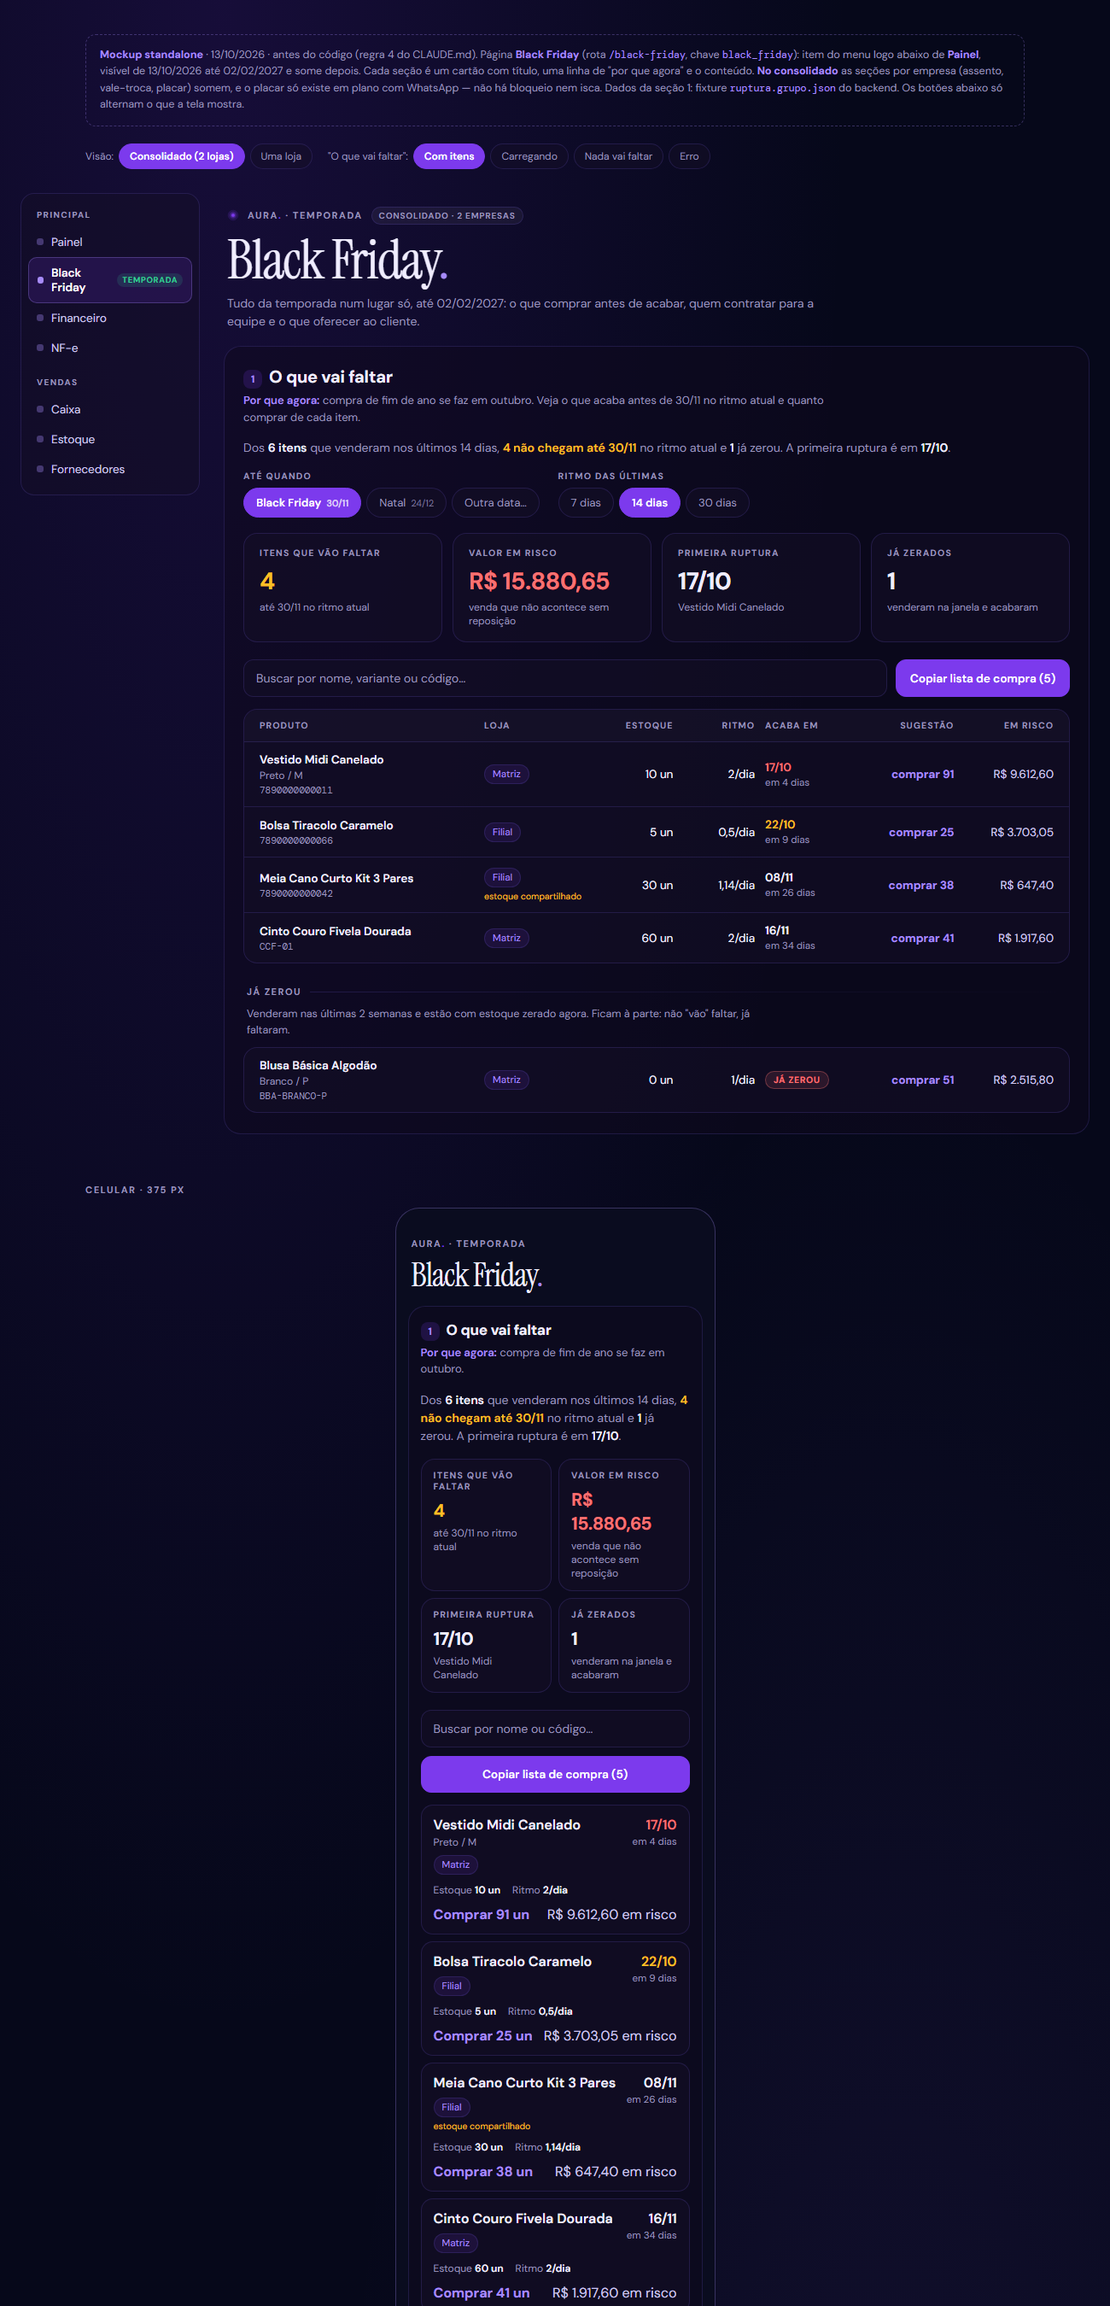
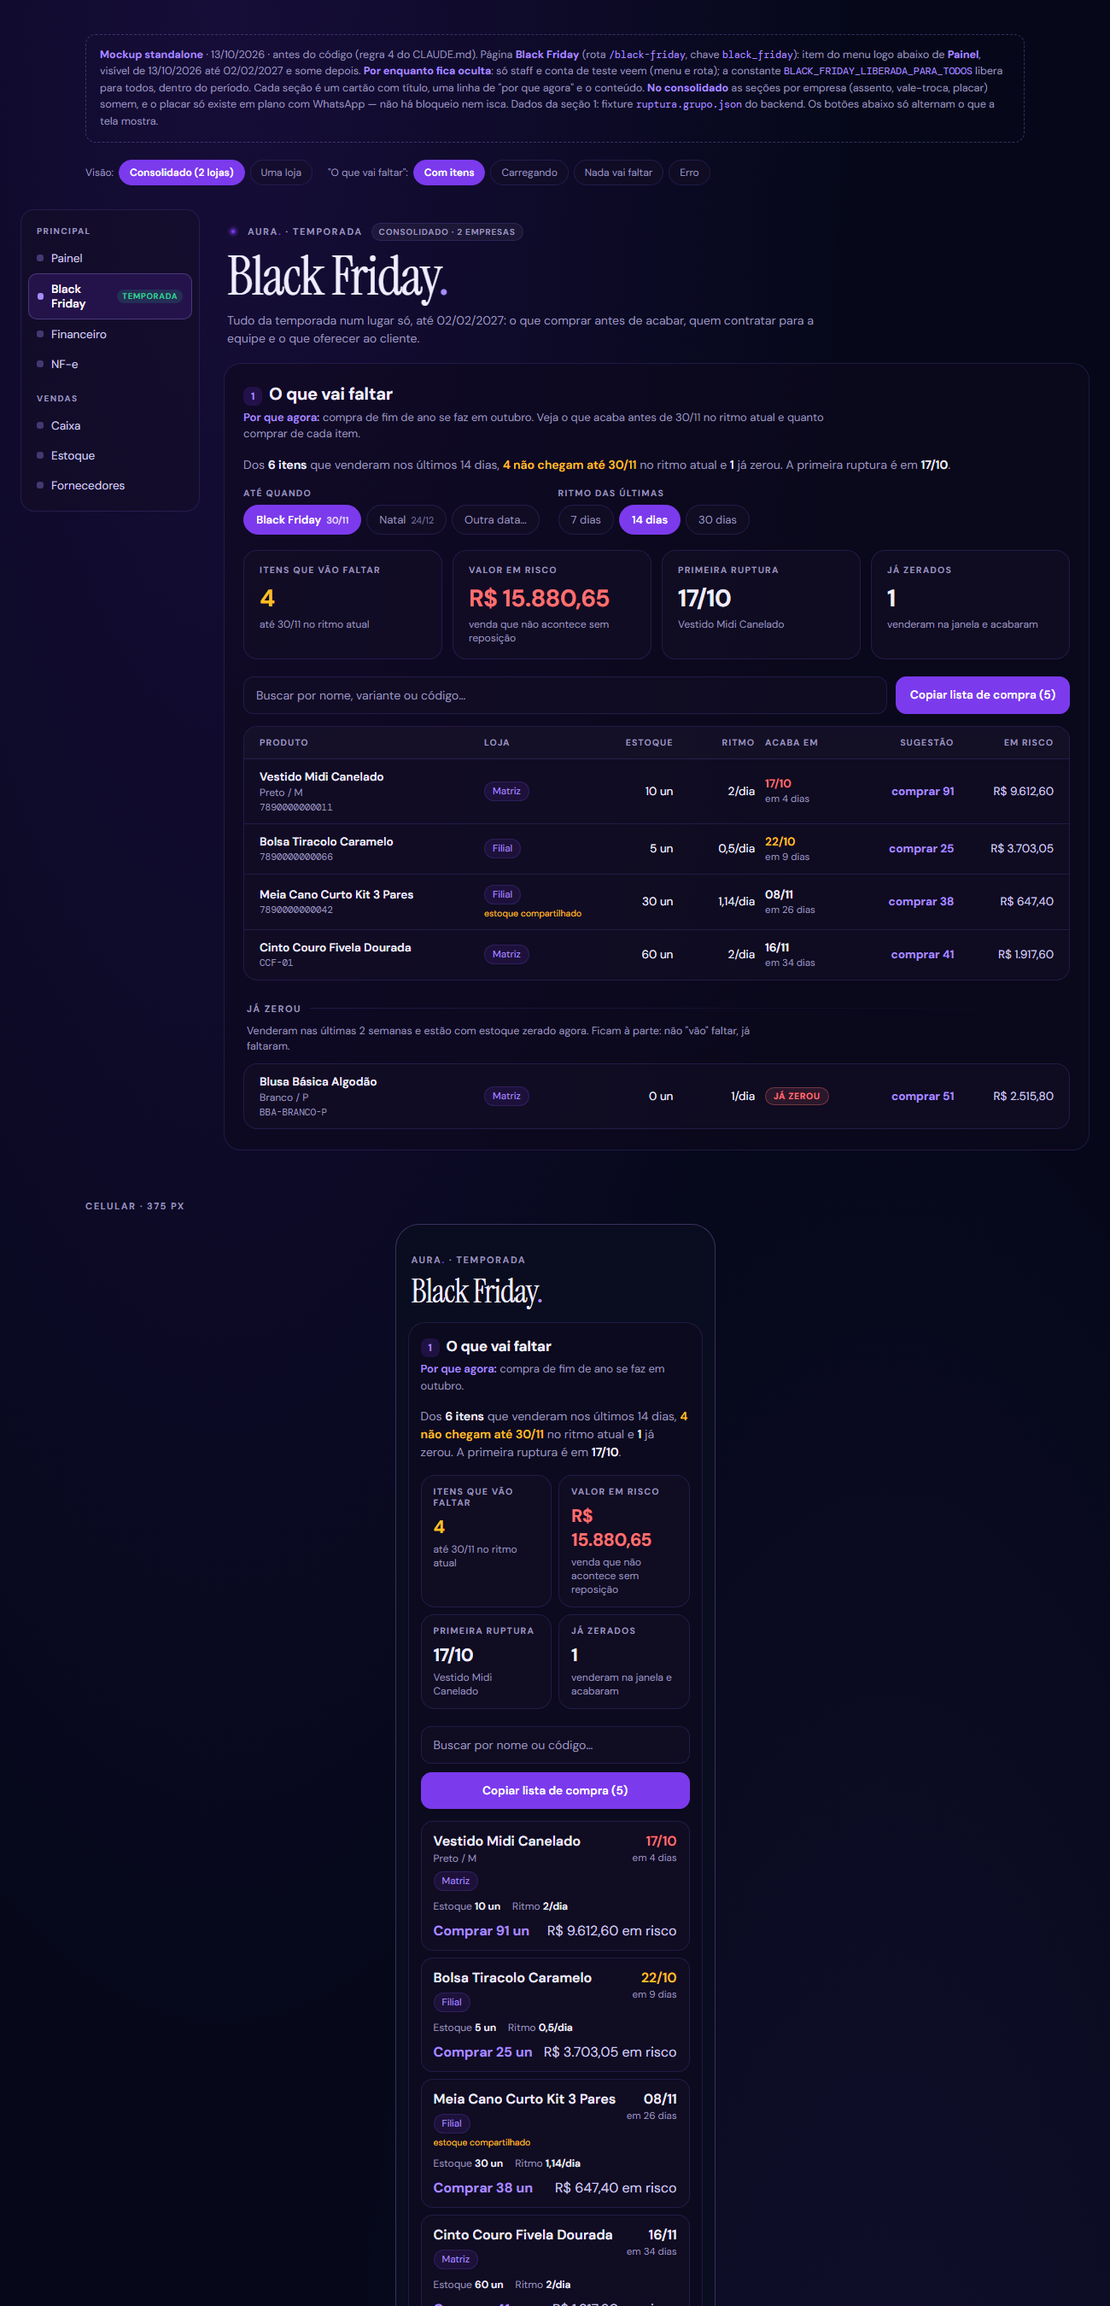
feat(black-friday): página oculta por enquanto — só staff e conta de teste
- BLACK_FRIDAY_LIBERADA_PARA_TODOS = false (constants/blackFriday.ts); em true libera
  para todos dentro do período
- useBlackFridayLiberada: período + (constante ou staff/is_sandbox); usado pelo menu
  (Sidebar e MBar), pela rota (lojista cai no Painel) e pelo atalho em Configurações
- testes: staff e conta de teste veem, lojista comum não, constante true libera

diff --git a/__tests__/blackFridayPagina.test.tsx b/__tests__/blackFridayPagina.test.tsx
@@ -14,7 +14,9 @@
 // 4. o assento reaproveita o cartão de Configurações (sem moldura) e lá
 //    fica só o atalho; o vale-troca é espelho do MESMO estado do toggle de
 //    Políticas do Caixa;
-// 5. o Estoque não ganhou aba nem item novo.
+// 5. o Estoque não ganhou aba nem item novo;
+// 6. a página está OCULTA por enquanto: só staff e conta de teste (is_sandbox)
+//    veem — menu e rota — até BLACK_FRIDAY_LIBERADA_PARA_TODOS virar true.
 // ============================================================
 import React from "react";
 import fs from "fs";
@@ -69,7 +71,11 @@ jest.mock("@/components/screens/configuracoes/AssentoTemporadaCard", () => {
 });
 
 import { computeVisibleModules, MODULE_PLAN_MAP, PERM_TO_MODULES } from "@/hooks/useVisibleModules";
-import { BLACK_FRIDAY_ATE, BLACK_FRIDAY_DE, BLACK_FRIDAY_MOD, blackFridayAtivo } from "@/constants/blackFriday";
+import {
+  BLACK_FRIDAY_ATE, BLACK_FRIDAY_DE, BLACK_FRIDAY_LIBERADA_PARA_TODOS, BLACK_FRIDAY_MOD,
+  blackFridayAtivo, blackFridayLiberada, ehContaDeTeste,
+} from "@/constants/blackFriday";
+import BlackFridayRota from "@/app/(tabs)/black-friday";
 import { secoesDaPagina } from "@/components/screens/blackfriday/secoes";
 import { PaginaBlackFriday } from "@/components/screens/blackfriday/PaginaBlackFriday";
 import { AtalhoAssento } from "@/components/screens/blackfriday/AtalhoAssento";
@@ -96,7 +102,7 @@ function fixarHoje(iso: string) {
 beforeEach(() => {
   jest.clearAllMocks();
   fixarHoje("2026-10-13");
-  mockAuth = { company: { id: CID, plan: "negocio", member_role: "owner" }, consolidatedView: false, availableCompanies: [{ id: CID }], isStaff: false };
+  mockAuth = { company: { id: CID, plan: "negocio", member_role: "owner" }, consolidatedView: false, availableCompanies: [{ id: CID }], isStaff: false, isDemo: false, user: { is_staff: false } };
   mockVisible = new Set(["estoque", "configuracoes", "whatsapp", BLACK_FRIDAY_MOD]);
   mockPdv = { cash_tender_modal_enabled: true };
   mockSalvar.mockResolvedValue({});
@@ -129,8 +135,10 @@ describe("item do menu", () => {
     expect(linha).toContain('{ r: "/black-friday", l: "Black Friday", ic: "tag", mod: "black_friday", temporada: true }');
   });
 
-  it("é filtrado pelo período antes de qualquer outro filtro do buildRawNav", () => {
-    expect(LAYOUT).toContain("if (item.temporada && !blackFridayAtivo()) return false;");
+  it("é filtrado por período e por quem vê (hook), no Sidebar e no MBar", () => {
+    expect(LAYOUT).toContain("if (item.temporada && blackFridayOn !== true) return false;");
+    expect(Array.from(LAYOUT.matchAll(/const blackFridayOn = useBlackFridayLiberada\(\);/g))).toHaveLength(2);
+    expect(Array.from(LAYOUT.matchAll(/matconEnabled, blackFridayOn\)/g))).toHaveLength(2);
   });
 
   it("nenhum outro item do NAV herda a chave", () => {
@@ -369,7 +377,80 @@ describe("vale-troca: espelho do mesmo estado (pdv_settings)", () => {
 
 // ── 4. Configurações: só o atalho ────────────────────────────
 
+describe("quem vê a página (oculta por enquanto)", () => {
+  const lojista = { isStaff: false, isDemo: false, user: { is_staff: false }, company: { is_sandbox: false } };
+  const noPeriodo = "2026-11-30";
+
+  it("a constante de liberação geral nasce desligada", () => {
+    expect(BLACK_FRIDAY_LIBERADA_PARA_TODOS).toBe(false);
+  });
+
+  it("lojista comum NÃO vê, mesmo dentro do período", () => {
+    expect(blackFridayAtivo(noPeriodo)).toBe(true);
+    expect(blackFridayLiberada(lojista, noPeriodo)).toBe(false);
+  });
+
+  it("staff vê (isStaff do store ou is_staff do usuário)", () => {
+    expect(blackFridayLiberada({ ...lojista, isStaff: true }, noPeriodo)).toBe(true);
+    expect(blackFridayLiberada({ ...lojista, user: { is_staff: true } }, noPeriodo)).toBe(true);
+  });
+
+  it("conta de teste (empresa sandbox) vê", () => {
+    expect(ehContaDeTeste({ ...lojista, company: { is_sandbox: true } })).toBe(true);
+    expect(blackFridayLiberada({ ...lojista, company: { is_sandbox: true } }, noPeriodo)).toBe(true);
+  });
+
+  it("com a constante em true libera para todo mundo — dentro do período", () => {
+    expect(blackFridayLiberada(lojista, noPeriodo, true)).toBe(true);
+    expect(blackFridayLiberada(lojista, "2026-10-12", true)).toBe(false);
+    expect(blackFridayLiberada(lojista, "2027-02-03", true)).toBe(false);
+  });
+
+  it("staff também respeita o período", () => {
+    expect(blackFridayLiberada({ ...lojista, isStaff: true }, "2027-02-03")).toBe(false);
+    expect(blackFridayLiberada({ ...lojista, isStaff: true }, "2026-10-12")).toBe(false);
+  });
+
+  it("acesso direto pela URL: lojista comum cai no Painel e não renderiza a página", () => {
+    const r = montar(<BlackFridayRota />);
+    expect(r.toJSON()).toBeNull();
+    expect(mockReplace).toHaveBeenCalledWith("/");
+  });
+
+  it("acesso direto pela URL: staff vê a página e nada redireciona", () => {
+    mockAuth = { ...mockAuth, isStaff: true };
+    const r = montar(<BlackFridayRota />);
+    expect(r.root.findAllByProps({ testID: "pagina-black-friday" }, { deep: false })).toHaveLength(1);
+    expect(mockReplace).not.toHaveBeenCalled();
+  });
+
+  it("acesso direto pela URL: conta de teste vê a página", () => {
+    mockAuth = { ...mockAuth, company: { ...mockAuth.company, is_sandbox: true } };
+    const r = montar(<BlackFridayRota />);
+    expect(r.root.findAllByProps({ testID: "pagina-black-friday" }, { deep: false })).toHaveLength(1);
+  });
+
+  it("staff sem o módulo (override/permissão) também cai no Painel", () => {
+    mockAuth = { ...mockAuth, isStaff: true };
+    mockVisible = new Set(["estoque"]);
+    const r = montar(<BlackFridayRota />);
+    expect(r.toJSON()).toBeNull();
+    expect(mockReplace).toHaveBeenCalledWith("/");
+  });
+
+  it("fora do período nem staff entra", () => {
+    jest.useRealTimers();
+    fixarHoje("2027-02-10");
+    mockAuth = { ...mockAuth, isStaff: true };
+    const r = montar(<BlackFridayRota />);
+    expect(r.toJSON()).toBeNull();
+    expect(mockReplace).toHaveBeenCalledWith("/");
+  });
+});
+
 describe("atalho em Configurações › Plano", () => {
+  beforeEach(() => { mockAuth = { ...mockAuth, isStaff: true }; });
+
   it("leva à página Black Friday", () => {
     const r = montar(<AtalhoAssento />);
     const atalho = r.root.findAllByProps({ testID: "atalho-assento-black-friday" }, { deep: false })[0];
@@ -378,7 +459,11 @@ describe("atalho em Configurações › Plano", () => {
     expect(mockPush).toHaveBeenCalledWith("/black-friday");
   });
 
-  it("some junto com a página: fora do período, sem o módulo ou depois da janela do assento", () => {
+  it("some junto com a página: lojista comum, sem o módulo, fora do período ou depois da janela do assento", () => {
+    mockAuth = { ...mockAuth, isStaff: false };
+    expect(montar(<AtalhoAssento />).toJSON()).toBeNull(); // oculta por enquanto
+
+    mockAuth = { ...mockAuth, isStaff: true };
     mockVisible = new Set(["estoque", "configuracoes"]);
     expect(montar(<AtalhoAssento />).toJSON()).toBeNull();
 

diff --git a/app/(tabs)/_layout.tsx b/app/(tabs)/_layout.tsx
@@ -16,7 +16,7 @@ import { useVisibleModules, MODULE_PLAN_MAP, PLAN_LEVEL } from "@/hooks/useVisib
 import { usePdvSettings } from "@/hooks/usePdvSettings";
 import { useSidebarLayout, applyLayoutToNav } from "@/hooks/useSidebarLayout";
 import { moduloEstaOculto } from "@/constants/modulosOcultos";
-import { blackFridayAtivo } from "@/constants/blackFriday";
+import { useBlackFridayLiberada } from "@/hooks/useBlackFridayLiberada";
 import { SidebarEditor } from "@/components/SidebarEditor";
 import { CompanySwitcher } from "@/components/CompanySwitcher"; // M1-06: Multi-CNPJ switcher
 import { NotificationBell } from "@/components/NotificationBell";
@@ -254,7 +254,7 @@ function isA(p: string, r: string) {
 // Usado tanto na renderizacao (depois aplica layout) quanto pra
 // passar como baseNav pro SidebarEditor (cliente ve TUDO no editor).
 // ============================================================
-function buildRawNav(visibleMods: Set<string>, isStaff: boolean, activeVertical: string | null | undefined, osEnabled?: boolean, oticaEnabled?: boolean, matconEnabled?: boolean): NavSection[] {
+function buildRawNav(visibleMods: Set<string>, isStaff: boolean, activeVertical: string | null | undefined, osEnabled?: boolean, oticaEnabled?: boolean, matconEnabled?: boolean, blackFridayOn?: boolean): NavSection[] {
   const base = NAV.map(section => ({
     ...section,
     i: section.i.filter(item => {
@@ -272,8 +272,9 @@ function buildRawNav(visibleMods: Set<string>, isStaff: boolean, activeVertical:
       // ve secao nenhuma.
       if (item.matconToggle && matconEnabled !== true) return false;
       // 13/10/2026 — pagina de temporada: some fora do periodo (de 13/10/2026
-      // ate 02/02/2027, constants/blackFriday.ts).
-      if (item.temporada && !blackFridayAtivo()) return false;
+      // ate 02/02/2027) e, por enquanto, para quem nao e conta de teste
+      // (BLACK_FRIDAY_LIBERADA_PARA_TODOS, constants/blackFriday.ts).
+      if (item.temporada && blackFridayOn !== true) return false;
       // 21/09/2026 — feature que ainda nao esta operante fica fora do
       // menu (constants/modulosOcultos.ts). Filtro de APRESENTACAO: o
       // item segue declarado no NAV e o plano/permissao dele continuam
@@ -528,13 +529,14 @@ function Sidebar({ collapsed, onToggle }: { collapsed: boolean; onToggle: () => 
   const osEnabled = pdvSettingsNav.os_enabled === true;
   const oticaEnabled = pdvSettingsNav.otica_enabled === true;
   const matconEnabled = pdvSettingsNav.matcon_enabled === true;
+  const blackFridayOn = useBlackFridayLiberada();
   const activeVertical = (co as any)?.vertical_active as string | null | undefined;
 
   // rawFilteredNav: NAV cru (so plano/staff/vertical), passado pro editor pra
   // cliente ver TUDO disponivel.
   const rawFilteredNav = useMemo(
-    () => buildRawNav(visibleMods, isStaff, activeVertical, osEnabled, oticaEnabled, matconEnabled),
-    [visibleMods, isStaff, activeVertical, osEnabled, oticaEnabled, matconEnabled]
+    () => buildRawNav(visibleMods, isStaff, activeVertical, osEnabled, oticaEnabled, matconEnabled, blackFridayOn),
+    [visibleMods, isStaff, activeVertical, osEnabled, oticaEnabled, matconEnabled, blackFridayOn]
   );
 
   // filteredNav: rawFilteredNav + customizacoes do cliente aplicadas.
@@ -798,6 +800,7 @@ function MBar() {
   const osEnabled = pdvSettingsNav.os_enabled === true;
   const oticaEnabled = pdvSettingsNav.otica_enabled === true;
   const matconEnabled = pdvSettingsNav.matcon_enabled === true;
+  const blackFridayOn = useBlackFridayLiberada();
   const activeVertical = (co as any)?.vertical_active as string | null | undefined;
 
   // 4 tabs fixas no rodape (nao editaveis pelo cliente).
@@ -811,8 +814,8 @@ function MBar() {
 
   // rawFilteredNav: mesma logica do desktop, base unica de items disponiveis.
   const rawFilteredNav = useMemo(
-    () => buildRawNav(visibleMods, isStaff, activeVertical, osEnabled, oticaEnabled, matconEnabled),
-    [visibleMods, isStaff, activeVertical, osEnabled, oticaEnabled, matconEnabled]
+    () => buildRawNav(visibleMods, isStaff, activeVertical, osEnabled, oticaEnabled, matconEnabled, blackFridayOn),
+    [visibleMods, isStaff, activeVertical, osEnabled, oticaEnabled, matconEnabled, blackFridayOn]
   );
 
   // filteredNav: aplica layout custom do cliente.

diff --git a/constants/blackFriday.ts b/constants/blackFriday.ts
@@ -26,3 +26,49 @@ export function blackFridayAtivo(hoje?: string): boolean {
   if (!dia) return false;
   return dia >= BLACK_FRIDAY_DE && dia <= BLACK_FRIDAY_ATE;
 }
+
+// ── Quem vê ──────────────────────────────────────────────────
+//
+// Decisão do Caio (13/10): a página fica OCULTA por enquanto e só aparece
+// para quem testa — staff (is_staff ou conta @getaura.com.br) e empresa de
+// teste (companies.is_sandbox). Quando `BLACK_FRIDAY_LIBERADA_PARA_TODOS`
+// virar true, a página abre para todo mundo, dentro do período e do plano.
+//
+// ATENÇÃO — `is_sandbox`: a coluna existe no backend (migration 320), mas o
+// GET /auth/me ainda NÃO a devolve no objeto `company`. Enquanto isso, a
+// leitura abaixo só acende para staff; ela passa a valer para conta de
+// teste sozinha assim que o payload trouxer o campo (sem mudar o app).
+export const BLACK_FRIDAY_LIBERADA_PARA_TODOS = false;
+
+export type ContaParaBlackFriday = {
+  /** isStaff do auth store (is_staff ou @getaura.com.br). */
+  isStaff?: boolean | null;
+  /** Campo legado do auth store (hoje sempre false). */
+  isDemo?: boolean | null;
+  user?: { is_staff?: boolean | null } | null;
+  company?: { is_sandbox?: boolean | null } | null;
+};
+
+/** A conta é de teste (staff, demo ou empresa sandbox)? */
+export function ehContaDeTeste(c: ContaParaBlackFriday): boolean {
+  return (
+    c.isStaff === true ||
+    c.isDemo === true ||
+    (!!c.user && c.user.is_staff === true) ||
+    (!!c.company && c.company.is_sandbox === true)
+  );
+}
+
+/**
+ * A página (item do menu e rota) está liberada para esta conta, hoje?
+ * Período E (liberada para todos OU conta de teste). `hoje` e a constante
+ * são injetáveis só para teste.
+ */
+export function blackFridayLiberada(
+  c: ContaParaBlackFriday,
+  hoje?: string,
+  liberadaParaTodos: boolean = BLACK_FRIDAY_LIBERADA_PARA_TODOS,
+): boolean {
+  if (!blackFridayAtivo(hoje)) return false;
+  return liberadaParaTodos || ehContaDeTeste(c);
+}

diff --git a/app/(tabs)/black-friday.tsx b/app/(tabs)/black-friday.tsx
@@ -4,7 +4,8 @@
 // A página da temporada de fim de ano. O arquivo só monta o corpo
 // (components/screens/blackfriday/PaginaBlackFriday) dentro do shell padrão
 // do app e guarda a porta: fora do período (constants/blackFriday.ts) ou
-// sem o módulo `black_friday` (permissão ou override), volta para o Painel
+// sem o módulo `black_friday` (permissão ou override) ou, por enquanto, sem
+// ser conta de teste (BLACK_FRIDAY_LIBERADA_PARA_TODOS), volta para o Painel
 // — quem digitou a URL de uma página que o menu não mostra não fica nela.
 // ============================================================
 import { useEffect } from "react";
@@ -12,13 +13,15 @@ import { ScrollView, StyleSheet, Dimensions } from "react-native";
 import { router } from "expo-router";
 import { PaginaBlackFriday } from "@/components/screens/blackfriday/PaginaBlackFriday";
 import { useVisibleModules } from "@/hooks/useVisibleModules";
-import { BLACK_FRIDAY_MOD, blackFridayAtivo } from "@/constants/blackFriday";
+import { BLACK_FRIDAY_MOD } from "@/constants/blackFriday";
+import { useBlackFridayLiberada } from "@/hooks/useBlackFridayLiberada";
 
 const IS_WIDE = Dimensions.get("window").width > 768;
 
 export default function BlackFridayScreen() {
   const visible = useVisibleModules();
-  const permitido = blackFridayAtivo() && visible.has(BLACK_FRIDAY_MOD);
+  const liberada = useBlackFridayLiberada();
+  const permitido = liberada && visible.has(BLACK_FRIDAY_MOD);
 
   useEffect(() => {
     if (!permitido) router.replace("/" as any);

diff --git a/docs/mockups/black-friday.html b/docs/mockups/black-friday.html
@@ -269,7 +269,8 @@
 <div class="nota">
   <b>Mockup standalone</b> · 13/10/2026 · antes do código (regra 4 do CLAUDE.md). Página <b>Black Friday</b> (rota
   <code>/black-friday</code>, chave <code>black_friday</code>): item do menu logo abaixo de <b>Painel</b>, visível de
-  13/10/2026 até 02/02/2027 e some depois. Cada seção é um cartão com título, uma linha de "por que agora" e o conteúdo.
+  13/10/2026 até 02/02/2027 e some depois. <b>Por enquanto fica oculta</b>: só staff e conta de teste veem (menu e rota);
+  a constante <code>BLACK_FRIDAY_LIBERADA_PARA_TODOS</code> libera para todos, dentro do período. Cada seção é um cartão com título, uma linha de "por que agora" e o conteúdo.
   <b>No consolidado</b> as seções por empresa (assento, vale-troca, placar) somem, e o placar só existe em plano com WhatsApp — não há bloqueio nem isca. Dados da seção 1:
   fixture <code>ruptura.grupo.json</code> do backend. Os botões abaixo só alternam o que a tela mostra.
 </div>

diff --git a/components/screens/blackfriday/AtalhoAssento.tsx b/components/screens/blackfriday/AtalhoAssento.tsx
@@ -11,12 +11,14 @@ import { router } from "expo-router";
 import { Colors } from "@/constants/colors";
 import { Icon } from "@/components/Icon";
 import { useVisibleModules } from "@/hooks/useVisibleModules";
-import { BLACK_FRIDAY_MOD, BLACK_FRIDAY_ROTA, blackFridayAtivo } from "@/constants/blackFriday";
+import { BLACK_FRIDAY_MOD, BLACK_FRIDAY_ROTA } from "@/constants/blackFriday";
+import { useBlackFridayLiberada } from "@/hooks/useBlackFridayLiberada";
 import { assentoTemporadaVisivel } from "@/components/screens/configuracoes/assentoTemporada";
 
 export function AtalhoAssento() {
   const visible = useVisibleModules();
-  if (!blackFridayAtivo() || !assentoTemporadaVisivel() || !visible.has(BLACK_FRIDAY_MOD)) return null;
+  const liberada = useBlackFridayLiberada();
+  if (!liberada || !assentoTemporadaVisivel() || !visible.has(BLACK_FRIDAY_MOD)) return null;
   return (
     <Pressable
       onPress={() => router.push(BLACK_FRIDAY_ROTA as any)}

diff --git a/hooks/useBlackFridayLiberada.ts b/hooks/useBlackFridayLiberada.ts
@@ -1,0 +1,14 @@
+// ============================================================
+// AURA. — A página Black Friday está liberada para esta conta? (13/10/2026)
+//
+// Uma só leitura para o menu (Sidebar e MBar), a rota /black-friday e o
+// atalho em Configurações: período + (BLACK_FRIDAY_LIBERADA_PARA_TODOS ou
+// conta de teste). Ver constants/blackFriday.ts.
+// ============================================================
+import { useAuthStore } from "@/stores/auth";
+import { blackFridayLiberada } from "@/constants/blackFriday";
+
+export function useBlackFridayLiberada(): boolean {
+  const { isStaff, isDemo, user, company } = useAuthStore() as any;
+  return blackFridayLiberada({ isStaff, isDemo, user, company });
+}
